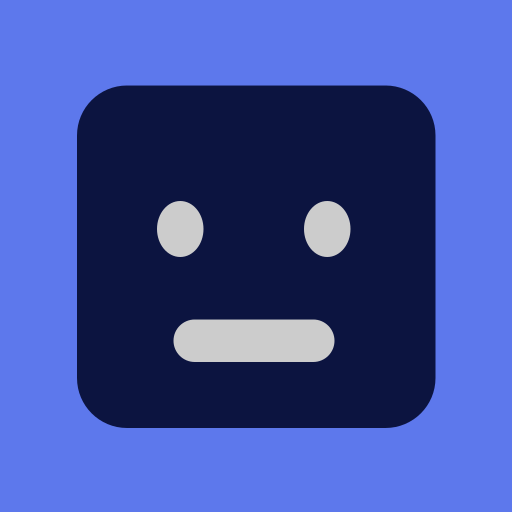
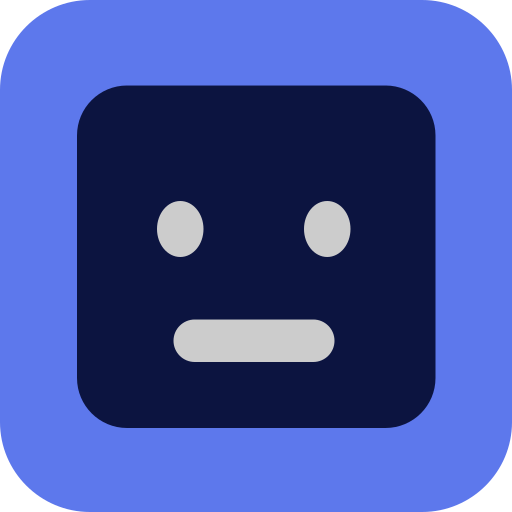
@ 升级至 v1.2.4：重构暗色模式、优化悬浮球交互
- 移除旧暗色模式后基于亮色模式重构，统一变量体系
- 修复暗色模式标签页关闭按钮偏移问题
- 悬浮球点击添加按压回弹 + 淡出消失动画
- 清理动画相关冗余代码，恢复简洁显示/隐藏逻辑

@

diff --git a/index.html b/index.html
@@ -136,7 +136,12 @@
   .tab-item .indicator.loaded { opacity:1; }
   .tab-item .indicator:hover {
     transform:scale(3);
-    background:url('svg/close-btn.svg') no-repeat center / contain !important;
+    border-radius:0;
+    background-image:url('svg/close-btn.svg') !important;
+    background-repeat:no-repeat !important;
+    background-position:center !important;
+    background-size:contain !important;
+    background-color:transparent !important;
   }
   #sidebar.collapsed .tab-item .indicator { opacity:0; }
   .tab-item.dragging { opacity:0.5; }
@@ -179,7 +184,6 @@
   .nav-btn svg { width:18px; height:18px; fill:var(--text-tab); transition: fill 0.15s; }
   .nav-btn:hover { background:var(--hover-navbtn); border-color:#bbb; }
   .nav-btn:hover svg { fill:#333; }
-  body.dark .nav-btn:hover svg { fill:#ddd; }
   .nav-btn:active { transform:scale(0.95); }
   .nav-btn.disabled { opacity:0.3; pointer-events:none; }
   #url-bar {
@@ -205,7 +209,6 @@
   }
   .site-tag:hover { background:transparent !important; box-shadow:inset 0 0 0 1.5px #e02f2f; color:transparent !important; }
   .site-tag:hover::before { opacity:1; }
-  body.dark .site-tag:hover { background:transparent !important; box-shadow:inset 0 0 0 1.5px #e02f2f; color:transparent !important; }
   .site-tag.ds  { background:#eef1ff; color:#4d6bfe; }
   .site-tag.yb  { background:#e6f9f5; color:#00b894; }
   .site-tag.mm  { background:#f0f9ff; color:#0ea5e9; }
@@ -219,36 +222,45 @@
 
   /* ========== DARK MODE ========== */
   body.dark {
-    --bg-titlebar:    #171717;
-    --bg-sidebar:     #171717;
-    --bg-content:     #212121;
-    --bg-navbar:      #212121;
-    --bg-urlbar:      #1a1a1a;
-    --bg-webview:     #212121;
-    --border-sidebar: #262626;
-    --border-nav:     #333;
+    --bg-titlebar:    #1a1a1a;
+    --bg-sidebar:     #1a1a1a;
+    --bg-content:     #1f1f1f;
+    --bg-navbar:      #1f1f1f;
+    --bg-urlbar:      #232323;
+    --bg-webview:     #1f1f1f;
+    --border-sidebar: #2a2a2a;
+    --border-nav:     #2e2e2e;
     --border-btn:     #333;
-    --text-title:     #6e6e6e;
-    --text-tab:       #a0a0a0;
-    --text-tab-active:#f0f0f0;
-    --text-dim:       #8e8e8e;
-    --text-url:       #666;
+    --text-title:     #666;
+    --text-tab:       #999;
+    --text-tab-active:#e0e0e0;
+    --text-dim:       #777;
+    --text-url:       #888;
     --text-url-domain:#ddd;
-    --hover-tab:      #1f1f1f;
+    --hover-tab:      #252525;
     --hover-navbtn:   #2a2a2a;
-    --active-tab-bg:  #252525;
+    --active-tab-bg:  #2a2a2a;
     --win-hover:      #2a2a2a;
-    --btn-hover:      #252525;
+    --btn-hover:      #2a2a2a;
     --footer-text:    #555;
-    --section-label:  #5a5a5a;
+    --section-label:  #555;
   }
   body.dark .tab-item.active { color:#f0f0f0; }
-  body.dark .nav-btn:hover { color:#ddd; }
+  body.dark .tab-item .indicator:hover {
+    transform:scale(3);
+    border-radius:0;
+    background-image:url('svg/close-btn.svg') !important;
+    background-repeat:no-repeat !important;
+    background-position:center !important;
+    background-size:contain !important;
+    background-color:transparent !important;
+  }
+  body.dark .nav-btn:hover svg { fill:#ddd; }
   body.dark .site-tag.ds  { background:#1a1d2e; color:#6c8cff; }
   body.dark .site-tag.yb  { background:#1a2e28; color:#2dd4a8; }
   body.dark .site-tag.mm  { background:#1a2a33; color:#38bdf8; }
   body.dark .site-tag.db  { background:#1e1f2e; color:#818cf8; }
-  body.dark .site-tag.km  { background:#2a2a2a; color:#999; }
+  body.dark .site-tag.km  { background:#2a2a2a; color:#b0b0b0; }
   body.dark .site-tag.qw  { background:#1f1b33; color:#8b7cf8; }
 
   /* ========== SETTINGS MODAL ========== */
@@ -404,49 +416,43 @@
       <div class="section-label">会话</div>
 
       <button class="tab-item active" data-site="deepseek" title="DeepSeek">
-        <img src="https://chat.deepseek.com/favicon.ico" class="favicon" alt=""
-             onerror="this.style.display='none';this.nextElementSibling.style.display='flex'">
-        <span class="favicon-placeholder" style="display:none;background:#4d6bfe">DS</span>
+        <img class="favicon" alt="" style="display:none" data-src="https://chat.deepseek.com/favicon.ico">
+        <span class="favicon-placeholder" style="background:#4d6bfe">DS</span>
         <span class="tab-text">DeepSeek</span>
         <span class="indicator" style="background:#4d6bfe"></span>
       </button>
 
       <button class="tab-item" data-site="yuanbao" title="腾讯元宝">
-        <img src="https://yuanbao.tencent.com/chat/favicon.ico" class="favicon" alt=""
-             onerror="this.style.display='none';this.nextElementSibling.style.display='flex'">
-        <span class="favicon-placeholder" style="display:none;background:#00b894">YB</span>
+        <img class="favicon" alt="" style="display:none" data-src="https://yuanbao.tencent.com/chat/favicon.ico">
+        <span class="favicon-placeholder" style="background:#00b894">YB</span>
         <span class="tab-text">腾讯元宝</span>
         <span class="indicator" style="background:#00b894"></span>
       </button>
 
       <button class="tab-item" data-site="doubao" title="豆包">
-        <img src="https://www.doubao.com/chat/favicon.ico" class="favicon" alt=""
-             onerror="this.style.display='none';this.nextElementSibling.style.display='flex'">
-        <span class="favicon-placeholder" style="display:none;background:#6366f1">DB</span>
+        <img class="favicon" alt="" style="display:none" data-src="https://www.doubao.com/chat/favicon.ico">
+        <span class="favicon-placeholder" style="background:#6366f1">DB</span>
         <span class="tab-text">豆包</span>
         <span class="indicator" style="background:#6366f1"></span>
       </button>
 
       <button class="tab-item" data-site="kimi" title="Kimi">
-        <img src="https://www.kimi.com/favicon.ico" class="favicon" alt=""
-             onerror="this.style.display='none';this.nextElementSibling.style.display='flex'">
-        <span class="favicon-placeholder" style="display:none;background:#1a1a1a">KM</span>
+        <img class="favicon" alt="" style="display:none" data-src="https://www.kimi.com/favicon.ico">
+        <span class="favicon-placeholder" style="background:#1a1a1a">KM</span>
         <span class="tab-text">Kimi</span>
         <span class="indicator" style="background:#888"></span>
       </button>
 
       <button class="tab-item" data-site="minimax" title="MiniMax">
-        <img src="https://agent.minimaxi.com/favicon.ico" class="favicon" alt=""
-             onerror="this.style.display='none';this.nextElementSibling.style.display='flex'">
-        <span class="favicon-placeholder" style="display:none;background:#0ea5e9">MM</span>
+        <img class="favicon" alt="" style="display:none" data-src="https://agent.minimaxi.com/favicon.ico">
+        <span class="favicon-placeholder" style="background:#0ea5e9">MM</span>
         <span class="tab-text">MiniMax</span>
         <span class="indicator" style="background:#0ea5e9"></span>
       </button>
 
       <button class="tab-item" data-site="tongyi" title="千问">
-        <img src="https://www.tongyi.com/favicon.ico" class="favicon" alt=""
-             onerror="this.style.display='none';this.nextElementSibling.style.display='flex'">
-        <span class="favicon-placeholder" style="display:none;background:#6b5ce7">QW</span>
+        <img class="favicon" alt="" style="display:none" data-src="https://www.tongyi.com/favicon.ico">
+        <span class="favicon-placeholder" style="background:#6b5ce7">QW</span>
         <span class="tab-text">千问</span>
         <span class="indicator" style="background:#6b5ce7"></span>
       </button>
@@ -550,7 +556,7 @@
 
     <div class="setting-section">
       <span class="setting-label">关于</span>
-      <div class="about-row"><span class="about-label">版本</span><span class="about-value">1.2.3</span></div>
+      <div class="about-row"><span class="about-label">版本</span><span class="about-value">1.2.4</span></div>
       <div class="about-row"><span class="about-label">许可协议</span><span class="about-value">ISC</span></div>
       <div class="about-row"><span class="about-label">GitHub</span><span class="about-value"><a href="#" id="repo-link">github.com/Shawnylin/aichathub</a></span></div>
     </div>
@@ -978,17 +984,27 @@
     document.getElementById('btn-max').innerHTML = v ? '&#x2B1C;' : '&#x25A1;';
   });
 
-  // 从缓存恢复图标
+  // 加载图标：有缓存直接用，无缓存则首次拉取并缓存
   tabItems.forEach(btn => {
     const site = btn.dataset.site;
+    const img = btn.querySelector('.favicon');
+    const placeholder = img.nextElementSibling;
     const saved = localStorage.getItem('aihub-favicon-' + site);
     if (saved) {
-      const img = btn.querySelector('.favicon');
-      if (img) {
-        img.src = saved;
+      img.src = saved;
+      img.style.display = '';
+      placeholder.style.display = 'none';
+    } else if (img.dataset.src) {
+      img.src = img.dataset.src;
+      img.onload = () => {
         img.style.display = '';
-        img.nextElementSibling.style.display = 'none';
-      }
+        placeholder.style.display = 'none';
+        try { localStorage.setItem('aihub-favicon-' + site, img.dataset.src); } catch(e) {}
+      };
+      img.onerror = () => {
+        img.style.display = 'none';
+        placeholder.style.display = 'flex';
+      };
     }
   });
 

diff --git a/floatball.html b/floatball.html
@@ -5,23 +5,15 @@
   html, body { width:100px; height:100px; overflow:hidden; background:transparent; user-select:none; }
   .ball {
     width:44px; height:44px; border-radius:50%;
-    margin:28px; position:relative;
+    margin:28px; position:relative; opacity:1;
     background:linear-gradient(135deg,#4d6bfe,#6c8cff);
-    box-shadow:0 2px 12px rgba(77,107,254,0.45), 0 0 0 0 rgba(77,107,254,0);
+    box-shadow:0 2px 12px rgba(77,107,254,0.45);
     display:flex; align-items:center; justify-content:center;
-    transition:transform 0.15s cubic-bezier(0.2,0,0,1), box-shadow 0.3s;
+    transition:transform 0.15s cubic-bezier(0.2,0,0,1), box-shadow 0.3s, opacity 0.2s;
     cursor:pointer;
   }
+  .ball.fade-out { opacity:0 !important; pointer-events:none; }
   .ball:hover { transform:scale(1.08); box-shadow:0 4px 20px rgba(77,107,254,0.55), 0 0 24px 4px rgba(108,140,255,0.25); }
-  .ball.popping {
-    animation:pop 0.4s cubic-bezier(0.1,0.8,0.3,1) forwards;
-    pointer-events:none;
-  }
-  @keyframes pop {
-    0%   { transform:scale(1.08); opacity:1; }
-    30%  { transform:scale(1.25); opacity:1; }
-    100% { transform:scale(0); opacity:0; }
-  }
   .glow {
     position:absolute; top:0; left:0; width:100%; height:100%; border-radius:50%;
     pointer-events:none; opacity:0;
@@ -29,7 +21,6 @@
     transition:opacity 0.25s;
   }
   .ball:hover .glow { opacity:1; }
-  .ball.popping .glow { opacity:1; }
   svg { position:relative; z-index:1; pointer-events:none; }
   .tip {
     position:absolute; top:2px; left:50%; transform:translateX(-50%);
@@ -55,29 +46,24 @@
   var glow = document.getElementById('glow');
   var tip = document.getElementById('tip');
   var startX, startY, lastX, lastY, moved = false, pointerId = null;
-  var clickTime = 0;
 
-  // 首次提示
   if (!localStorage.getItem('fb-tip-shown')) {
     tip.classList.add('show');
     localStorage.setItem('fb-tip-shown', '1');
     setTimeout(function() { tip.classList.remove('show'); }, 3500);
   }
 
-  // 双击关闭
   ball.addEventListener('dblclick', function(e) {
     e.preventDefault();
     window.float.closeFloat();
   });
 
-  // 右键菜单
   ball.addEventListener('contextmenu', function(e) {
     e.preventDefault();
     window.float.showContextMenu();
   });
 
   ball.addEventListener('pointerdown', function(e) {
-    if (ball.classList.contains('popping')) return;
     startX = e.screenX; startY = e.screenY;
     lastX = e.screenX; lastY = e.screenY;
     moved = false;
@@ -109,23 +95,17 @@
   ball.addEventListener('pointerup', function(e) {
     ball.releasePointerCapture(pointerId);
     pointerId = null;
+    ball.style.transform = '';
+    ball.style.transition = 'transform 0.25s cubic-bezier(0.2,0,0,1), box-shadow 0.3s, opacity 0.2s';
     if (!moved) {
-      ball.classList.add('popping');
-    } else {
-      ball.style.transform = '';
-      ball.style.transition = 'transform 0.15s cubic-bezier(0.2,0,0,1), box-shadow 0.3s';
+      setTimeout(function() { ball.classList.add('fade-out'); }, 200);
+      setTimeout(function() { window.float.onClick(); }, 430);
     }
   });
 
   ball.addEventListener('pointercancel', function() {
     ball.releasePointerCapture(pointerId);
     pointerId = null;
-  });
-
-  ball.addEventListener('animationend', function() {
-    if (ball.classList.contains('popping')) {
-      window.float.onClick();
-    }
   });
 })();
 </script>

diff --git a/main.js b/main.js
@@ -4,6 +4,19 @@ const { execSync } = require('child_process');
 
 app.commandLine.appendSwitch('js-flags', '--max-old-space-size=128');
 
+const gotTheLock = app.requestSingleInstanceLock();
+if (!gotTheLock) {
+  app.quit();
+} else {
+  app.on('second-instance', () => {
+    if (mainWindow) {
+      if (mainWindow.isMinimized()) mainWindow.restore();
+      mainWindow.show();
+      mainWindow.focus();
+    }
+  });
+}
+
 function checkForegroundFullscreen() {
   try {
     const script = `
@@ -56,6 +69,7 @@ function createWindow() {
     minWidth: 900,
     minHeight: 600,
     frame: false,
+    show: false,
     backgroundColor: '#0a0a0a',
     webPreferences: {
       preload: path.join(__dirname, 'preload.js'),
@@ -68,6 +82,10 @@ function createWindow() {
   mainWindow.loadFile('index.html');
   mainWindow.setMenuBarVisibility(false);
   mainWindow.setIcon(path.join(__dirname, 'assets', 'icon.ico'));
+
+  mainWindow.once('ready-to-show', () => {
+    mainWindow.show();
+  });
 
   mainWindow.on('maximize', () => mainWindow.webContents.send('maximize-change', true));
   mainWindow.on('unmaximize', () => mainWindow.webContents.send('maximize-change', false));
@@ -169,7 +187,8 @@ function createFloatBall() {
 }
 
 ipcMain.on('float-ball-click', () => {
-  if (mainWindow && !mainWindow.isVisible()) {
+  if (mainWindow) {
+    destroyFloatBall();
     mainWindow.show();
     mainWindow.focus();
   }
@@ -307,7 +326,6 @@ app.whenReady().then(() => {
     }
   }, 2000);
 
-  // 监听悬浮球关闭事件 → 恢复主窗口
   app.on('browser-window-blur', () => {});
 });
 